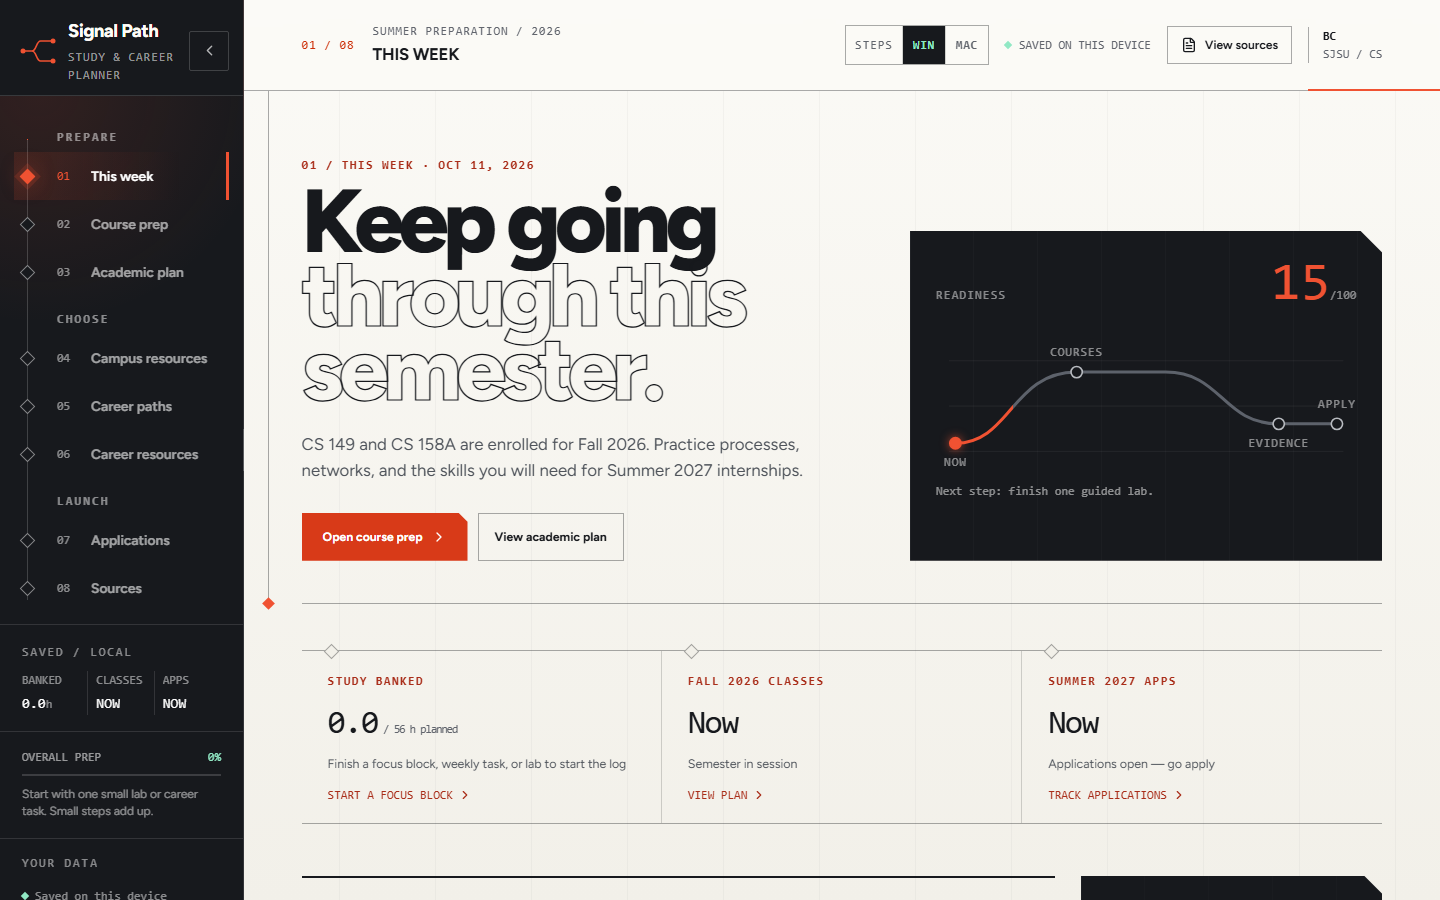
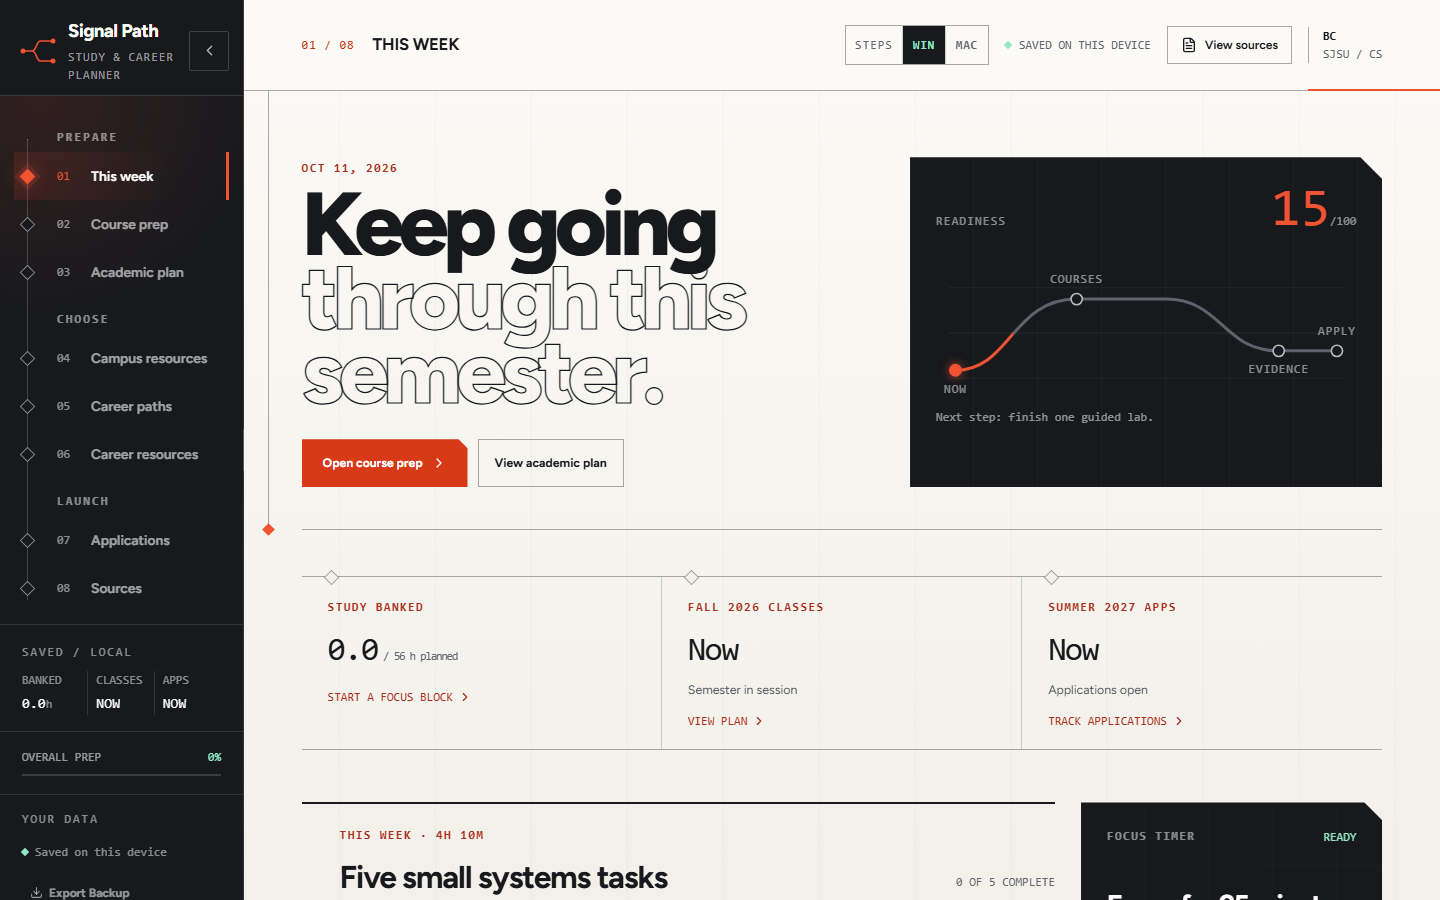
Trim subtext that restated headings or explained the obvious
Remove the topbar context lines, view eyebrows that repeat the page title,
the This week hero paragraph, pep-talk lines (sidebar note, focus prompt,
quote, "go apply"), the empty-log hint, the "Two systems, one foundation"
kicker, and the decorative NOTE 07.14 index and its kicker. Two view
descriptions that restated their headings go too. Screenshots retaken.

diff --git a/src/App.tsx b/src/App.tsx
@@ -95,7 +95,6 @@ type WorkspaceRoute = {
   code: string
   label: string
   shortLabel: string
-  context: string
   title: string
   group: 'Prepare' | 'Choose' | 'Launch'
 }
@@ -106,7 +105,6 @@ const workspaceRoutes: WorkspaceRoute[] = [
     code: '01',
     label: 'This week',
     shortLabel: 'Week',
-    context: 'Summer preparation / 2026',
     title: 'This week',
     group: 'Prepare',
   },
@@ -115,7 +113,6 @@ const workspaceRoutes: WorkspaceRoute[] = [
     code: '02',
     label: 'Course prep',
     shortLabel: 'Courses',
-    context: 'Enrolled · Fall 2026 / CS 149 + CS 158A',
     title: 'Course prep',
     group: 'Prepare',
   },
@@ -124,7 +121,6 @@ const workspaceRoutes: WorkspaceRoute[] = [
     code: '03',
     label: 'Academic plan',
     shortLabel: 'Plan',
-    context: 'Four semesters / one clear plan',
     title: 'Academic plan',
     group: 'Prepare',
   },
@@ -133,7 +129,6 @@ const workspaceRoutes: WorkspaceRoute[] = [
     code: '04',
     label: 'Campus resources',
     shortLabel: 'Campus',
-    context: 'SJSU / official resources',
     title: 'Campus resources',
     group: 'Choose',
   },
@@ -142,7 +137,6 @@ const workspaceRoutes: WorkspaceRoute[] = [
     code: '05',
     label: 'Career paths',
     shortLabel: 'Paths',
-    context: 'Six career options / compare the work',
     title: 'Career paths',
     group: 'Choose',
   },
@@ -151,7 +145,6 @@ const workspaceRoutes: WorkspaceRoute[] = [
     code: '06',
     label: 'Career resources',
     shortLabel: 'Library',
-    context: 'Learning resources / start with the basics',
     title: 'Learning resources',
     group: 'Choose',
   },
@@ -160,7 +153,6 @@ const workspaceRoutes: WorkspaceRoute[] = [
     code: '07',
     label: 'Applications',
     shortLabel: 'Apply',
-    context: 'Summer 2027 / application timeline',
     title: 'Applications',
     group: 'Launch',
   },
@@ -169,7 +161,6 @@ const workspaceRoutes: WorkspaceRoute[] = [
     code: '08',
     label: 'Sources',
     shortLabel: 'Sources',
-    context: 'Sources / where the information came from',
     title: 'Sources',
     group: 'Launch',
   },
@@ -320,9 +311,9 @@ function ViewIntro({
   description,
   action,
 }: {
-  eyebrow: string
+  eyebrow?: string
   title: string
-  description: string
+  description?: string
   action?: React.ReactNode
 }) {
   return (
@@ -332,9 +323,9 @@ function ViewIntro({
         <i />
       </div>
       <div className="route-intro-copy">
-        <p className="route-kicker">{eyebrow}</p>
+        {eyebrow && <p className="route-kicker">{eyebrow}</p>}
         <h2>{title}</h2>
-        <p>{description}</p>
+        {description && <p>{description}</p>}
       </div>
       {action && <div className="route-intro-action">{action}</div>}
     </header>
@@ -1504,11 +1495,6 @@ function App() {
           <div className="progress-track" aria-hidden="true">
             <span style={{ width: `${Math.round((sjsuProgressPercent + careerProgressPercent) / 2)}%` }}></span>
           </div>
-          <p id="sidebarProgressNote">
-            {readinessScore > 30
-              ? `${modulesCompleteCount} modules & ${completedRequired} career steps checked. Nice pace.`
-              : "Start with one small lab or career task. Small steps add up."}
-          </p>
         </section>
 
         <div className="sidebar-footer">
@@ -1585,7 +1571,6 @@ function App() {
             <div className="topbar-route">
               <span className="topbar-route-code">{activeRoute.code} / 08</span>
               <div>
-                <span className="topbar-context">{activeRoute.context}</span>
                 <h1 id="viewTitle">
                   {activeView === 'career-paths' ? `${profile.shortName} path` : activeRoute.title}
                 </h1>
@@ -1619,15 +1604,12 @@ function App() {
             <header className="dashboard-intro routing-hero">
               <div className="routing-hero-copy">
                 <p className="route-kicker" id="todayLabel">
-                  01 / THIS WEEK · {new Date().toLocaleDateString('en-US', { month: 'short', day: '2-digit', year: 'numeric' }).toUpperCase()}
+                  {new Date().toLocaleDateString('en-US', { month: 'short', day: '2-digit', year: 'numeric' }).toUpperCase()}
                 </p>
                 <h2>
                   Keep going
                   <span>through this semester.</span>
                 </h2>
-                <p>
-                  CS 149 and CS 158A are enrolled for Fall 2026. Practice processes, networks, and the skills you will need for Summer 2027 internships.
-                </p>
                 <div className="dashboard-actions">
                   <button className="button button-primary button-large" type="button" onClick={() => navigate('courses')}>
                     Open course prep <ChevronRight size={16} />
@@ -1690,11 +1672,11 @@ function App() {
               <button type="button" className="signal-meter" onClick={() => document.querySelector('.focus-bench')?.scrollIntoView({ behavior: 'smooth', block: 'center' })}>
                 <span className="mono-label">STUDY BANKED</span>
                 <strong>{(studyMinutes / 60).toFixed(1)}<small> / {Math.round(totalPlannedMinutes / 60)} h planned</small></strong>
-                <span className="signal-meter-note">
-                  {studyMinutes === 0
-                    ? 'Finish a focus block, weekly task, or lab to start the log'
-                    : `${focusLog.sessions} focus block${focusLog.sessions === 1 ? '' : 's'} + ${totalCodexComplete} finished item${totalCodexComplete === 1 ? '' : 's'}`}
-                </span>
+                {studyMinutes > 0 && (
+                  <span className="signal-meter-note">
+                    {`${focusLog.sessions} focus block${focusLog.sessions === 1 ? '' : 's'} + ${totalCodexComplete} finished item${totalCodexComplete === 1 ? '' : 's'}`}
+                  </span>
+                )}
                 <span className="signal-meter-action">Start a focus block <ChevronRight size={14} /></span>
               </button>
               <button type="button" className="signal-meter" onClick={() => navigate('academic-plan')}>
@@ -1716,7 +1698,7 @@ function App() {
                   : <strong>{daysUntil(INTERNSHIP_APPS_OPEN)}<small> days</small></strong>}
                 <span className="signal-meter-note">
                   {countdownReached(INTERNSHIP_APPS_OPEN)
-                    ? 'Applications open — go apply'
+                    ? 'Applications open'
                     : 'Estimated early August — check each company for exact dates'}
                 </span>
                 <span className="signal-meter-action">Track applications <ChevronRight size={14} /></span>
@@ -1801,9 +1783,6 @@ function App() {
                 <div className="timer" id="timerDisplay">
                   {formatTimer(timerRemaining)}
                 </div>
-                <p id="timerPrompt" className="timer-prompt">
-                  Close extra tabs, finish one small task, and write down what you learned.
-                </p>
                 <div className="timer-controls">
                   <button className="button button-primary" id="timerToggle" type="button" onClick={toggleTimer}>
                     {timerRunning ? 'Pause focus' : timerRemaining < FOCUS_BLOCK_SECONDS ? 'Resume focus' : 'Start focus'}
@@ -1816,7 +1795,6 @@ function App() {
                   <span>{focusLog.sessions}</span>
                   focus block{focusLog.sessions === 1 ? '' : 's'} banked
                 </div>
-                <blockquote>“Mastery is being able to predict what happens next.”</blockquote>
               </aside>
             </div>
 
@@ -1824,7 +1802,6 @@ function App() {
             <section className="course-readiness" aria-labelledby="course-readiness-heading" style={{ marginTop: '48px' }}>
               <div className="section-heading-row course-readiness-header" style={{ display: 'flex', justifyContent: 'space-between', alignItems: 'center', marginBottom: '20px' }}>
                 <div>
-                  <p className="mono-label">TWO SYSTEMS, ONE FOUNDATION</p>
                   <h3 id="course-readiness-heading" style={{ fontSize: '1.6rem', margin: '0' }}>Course readiness</h3>
                 </div>
                 <button className="text-button arrow-link" type="button" onClick={() => navigate('courses')}>
@@ -1915,9 +1892,7 @@ function App() {
 
             {/* Bottom Lab Note */}
             <section className="lab-note" aria-labelledby="lab-note-heading" style={{ marginTop: '48px' }}>
-              <div className="lab-note-index" aria-hidden="true">NOTE<br />07.14</div>
               <div>
-                <p className="mono-label">WHY THIS MATTERS FOR DATA SCIENCE</p>
                 <h3 id="lab-note-heading">Data science also needs systems skills.</h3>
                 <p>
                   Operating systems explain why parallel jobs slow down, memory use grows, and files become bottlenecks. Networks explain how data reaches an API, a cluster, or cloud storage. These courses support real data work.
@@ -1934,9 +1909,8 @@ function App() {
         {activeView === 'courses' && (
           <section className="view is-active" id="view-courses">
             <ViewIntro
-              eyebrow="02 / COURSE PREP"
               title="Practice the core ideas this semester."
-              description="Each module gives you something to run, inspect, or explain. Assignments may change by instructor, but the core ideas stay useful."
+              description="Assignments may change by instructor, but the core ideas stay useful."
               action={
                 <div className="course-selector" role="group" aria-label="Choose a course">
                   <button
@@ -2060,7 +2034,6 @@ function App() {
         {activeView === 'academic-plan' && (
           <section className="view is-active" id="view-roadmap">
             <ViewIntro
-              eyebrow="03 / ACADEMIC PLAN"
               title="Finish required courses. Choose useful electives."
               description="This is a planning guide, not an official degree audit. Mark finished courses, then check MyProgress and talk with a CS advisor."
               action={
@@ -2273,9 +2246,7 @@ function App() {
         {activeView === 'campus-resources' && (
           <section className="view is-active" id="view-campus">
             <ViewIntro
-              eyebrow="04 / CAMPUS RESOURCES"
               title="Check official SJSU sources first."
-              description="Find degree requirements, advising, department information, and career resources in one place."
             />
 
             <div className="campus-sjsu-view" style={{ display: 'grid', gap: '32px' }}>
@@ -2390,7 +2361,6 @@ function App() {
             </nav>
 
             <ViewIntro
-              eyebrow={profile.eyebrow}
               title={profile.name}
               description={profile.summary}
               action={
@@ -2725,9 +2695,7 @@ function App() {
         {activeView === 'outreach-applications' && (
           <section className="view is-active applications-route" id="view-applications">
             <ViewIntro
-              eyebrow="07 / APPLICATIONS"
               title="Keep every application moving."
-              description="Save Summer 2027 openings, choose the next step, and track each application from start to finish."
             />
 
             <section className="recruitment-calendar" aria-labelledby="recruitment-window-title">
@@ -2934,7 +2902,6 @@ function App() {
         {activeView === 'evidence-shelf' && (
           <section className="view is-active" id="view-sources">
             <ViewIntro
-              eyebrow="08 / SOURCES"
               title="Know where the information comes from."
               description="Course details and student benefits can change. Each item shows its source, so you can separate official information, class syllabi, student opinions, and study suggestions."
               action={

diff --git a/src/App.css b/src/App.css
@@ -707,20 +707,6 @@ textarea:focus-visible {
   white-space: nowrap;
 }
 
-.topbar-context {
-  display: block;
-  overflow: hidden;
-  max-width: 54vw;
-  margin-bottom: 2px;
-  color: var(--muted);
-  font-family: var(--font-mono);
-  font-size: 0.75rem;
-  letter-spacing: 0.08em;
-  text-overflow: ellipsis;
-  text-transform: uppercase;
-  white-space: nowrap;
-}
-
 .topbar h1 {
   margin: 0;
   font-size: 1.05rem;
@@ -1766,11 +1752,6 @@ textarea:focus-visible {
   line-height: 0.95;
 }
 
-.timer-prompt {
-  color: rgba(255, 255, 255, 0.58);
-  font-size: 0.84rem;
-}
-
 .timer-controls {
   display: flex;
   margin-top: 18px;
@@ -1791,16 +1772,6 @@ textarea:focus-visible {
 
 .focus-session-summary span {
   color: var(--mint);
-}
-
-.focus-bench blockquote {
-  margin: auto 0 0;
-  padding-top: 26px;
-  color: rgba(255, 255, 255, 0.52);
-  border-top: 1px solid rgba(255, 255, 255, 0.16);
-  font-family: var(--font-serif);
-  font-size: 1rem;
-  font-style: italic;
 }
 
 .app-shell.is-focusing .app-main::after {
@@ -1966,15 +1937,9 @@ textarea:focus-visible {
   padding: 24px 0;
   border-top: 1px solid var(--line-strong);
   border-bottom: 1px solid var(--line-strong);
-  grid-template-columns: 88px minmax(0, 1fr) auto;
+  grid-template-columns: minmax(0, 1fr) auto;
   align-items: center;
   gap: 28px;
-}
-
-.lab-note-index {
-  color: var(--signal-text);
-  font-family: var(--font-mono);
-  font-size: 0.75rem;
 }
 
 .lab-note h3 {
@@ -4817,7 +4782,6 @@ textarea:focus-visible {
   }
 
   .topbar-route-code,
-  .topbar-context,
   .topbar-save-state,
   .certainty-button,
   .profile-chip small {
@@ -4950,7 +4914,7 @@ textarea:focus-visible {
 
   .lab-note {
     display: grid;
-    grid-template-columns: 58px 1fr;
+    grid-template-columns: 1fr;
   }
 
   .lab-note .button {
